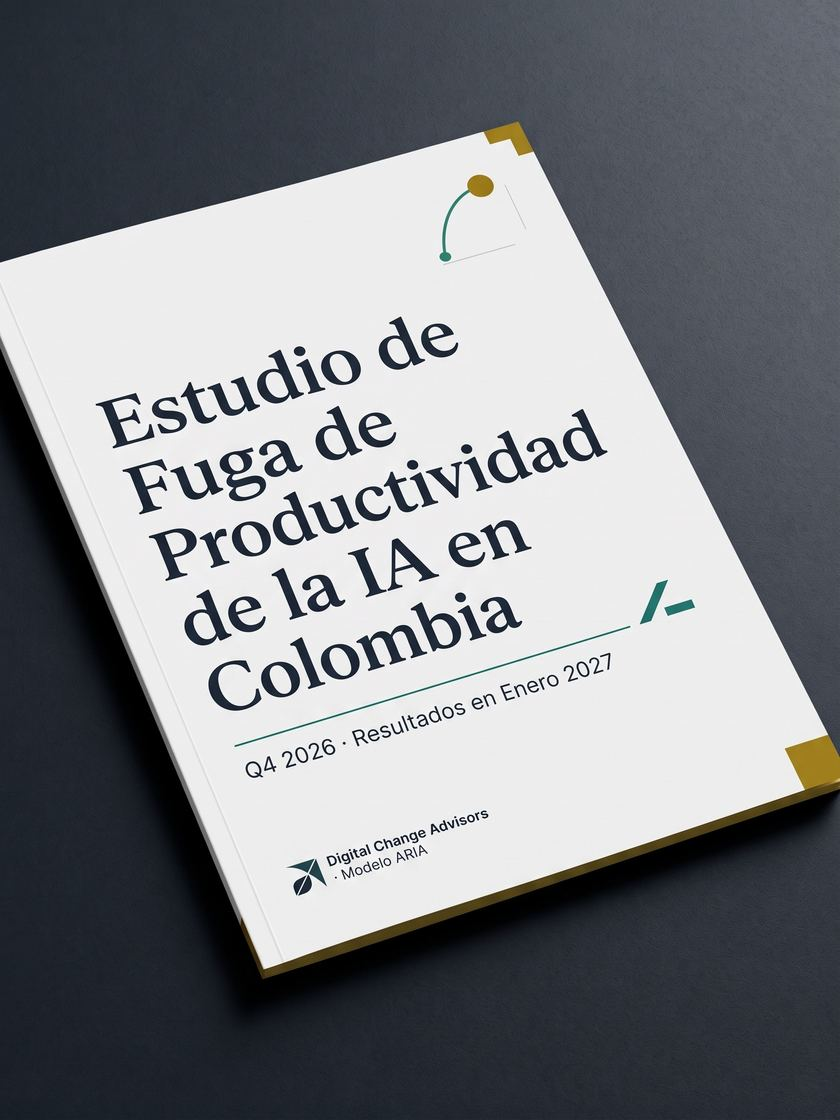
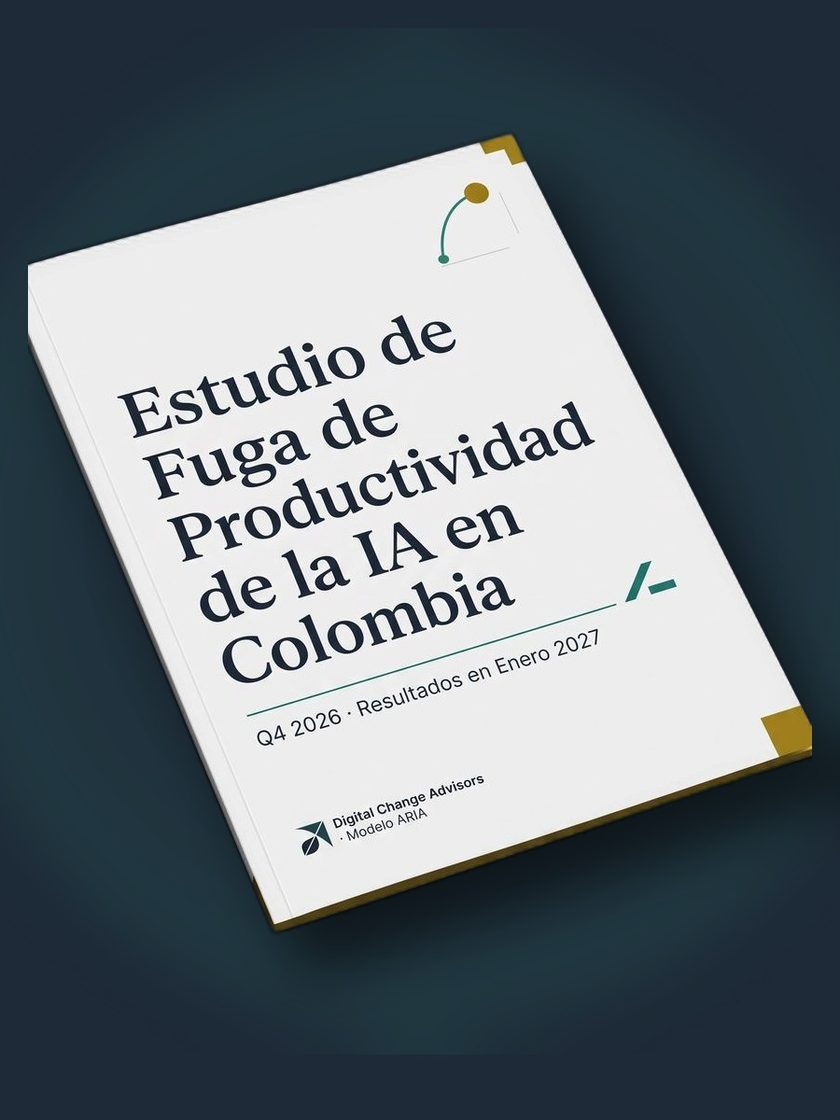
feat(blog): Estudio Colombia — nuevas fechas/muestra, portada recortada y fix de cascada mobile
Reescribe el bloque S5 de Perspectivas con el copy definitivo del Estudio de
Fuga de Productividad de la IA en Colombia: cierre de campo 16 de octubre de
2026, entrega a participantes 3 de noviembre, publicación abierta enero de
2027, muestra de 40 empresas colombianas, método AI Return Test (55
preguntas, <30 min). Cita a McKinsey (1.719 ejecutivos, 97 países) con
enlace a fuente primaria y citation en el JSON-LD Blog.

Portada: fondo recortado con rembg, halo teal radial y sombra suave
agregados por composición; masters en _image-masters/website/. Contraste
del cuerpo subido a 0.82 (~10.3:1 sobre carbón). Enlace secundario a
platino, botón primario en oro sólido sin cambios.

Corrige además un bug real de cascada en styles-blog.css: el media query
de mobile para .field-study__grid/.field-study__mock estaba declarado
antes que la regla base, así que nunca ganaba la especificidad y el
layout se quedaba en 2 columnas apretadas en viewports ≤980px. Verificado
con mediciones reales (Puppeteer) antes y después del fix.

Retira la última mención residual de "estudio LATAM" (newsletter AI
Return Pulse) por "Estudio Colombia".

diff --git a/blog.html b/blog.html
@@ -65,6 +65,9 @@
     "logo": {"@type": "ImageObject", "url": "https://digitalchangeadvisors.com/assets/favicon.png"}
   },
   "inLanguage": "es",
+  "citation": [
+    { "@type": "CreativeWork", "name": "The State of AI in 2026: On the Road to ROI", "publisher": { "@type": "Organization", "name": "McKinsey & Company" }, "url": "https://www.mckinsey.com/capabilities/quantumblack/our-insights/the-state-of-ai", "description": "Encuesta a 1.719 participantes en 97 países, trabajo de campo del 4 de mayo al 8 de junio de 2026, publicada el 25 de agosto de 2026. Citada en la sección Investigación en curso (Estudio de Fuga de Productividad de la IA en Colombia) por el 80% de mejora de productividad individual y el 37% de impacto en EBIT — mismas dos cifras y misma fuente ya citadas con este objeto en article-paper10.html." }
+  ],
   "blogPost": [
     {
       "@type": "BlogPosting",
@@ -670,22 +673,23 @@
       <div class="field-study__cover" data-reveal>
         <picture>
           <source srcset="assets/field-study-cover.webp" type="image/webp">
-          <img class="opt-img" src="assets/field-study-cover.jpg" alt="Portada del Estudio de Fuga de Productividad de la IA en Colombia — Digital Change Advisors · Modelo ARIA · Q4 2026" width="420" height="560" loading="lazy" decoding="async">
+          <img class="opt-img" src="assets/field-study-cover.jpg" alt="Portada del Estudio de Fuga de Productividad de la IA en Colombia — Digital Change Advisors · Modelo ARIA · campo abierto hasta el 16 de octubre de 2026" width="420" height="560" loading="lazy" decoding="async">
         </picture>
       </div>
 
       <div class="field-study__text" data-reveal>
-        <span class="label">Investigación en curso</span>
+        <span class="label">Investigación en curso · Campo abierto hasta el 16 de octubre</span>
         <h2 class="field-study__h2">
           <span class="line">Fuga de Productividad de la IA en Colombia: el estudio que</span>
           <span class="line">cuantifica lo que tu inversión no recupera.</span>
         </h2>
-        <p class="chapeau">Un estudio de campo enfocado en organizaciones medianas y grandes de Colombia: cuánto de la inversión en IA se pierde entre la adopción registrada y el retorno documentado en el P&amp;L.</p>
-        <p class="chapeau">Muestra: 50 empresas invitadas. Método: AI Return Test. Levantamiento de campo en Q4 2026 — resultados y benchmark sectorial en enero 2027. Quienes completen el AI Return Test antes del cierre y los suscriptores de AI Return Pulse serán los primeros en recibirlos.</p>
-        <p class="field-study__closer">Haz parte del primer diagnóstico sectorial de fuga de productividad de la IA en Colombia.</p>
+        <p class="chapeau"><a href="https://www.mckinsey.com/capabilities/quantumblack/our-insights/the-state-of-ai" target="_blank" rel="noopener noreferrer">McKinsey</a> midió en agosto de 2026, sobre 1.719 ejecutivos en 97 países: ocho de cada diez reportan más productividad personal con inteligencia artificial. Menos de cuatro de cada diez la encuentran en el EBIT de su empresa. Nadie ha medido esa distancia en Colombia.</p>
+        <p class="chapeau">Este es el primer estudio de campo que la mide, en organizaciones medianas y grandes con inversión activa en IA. Método: AI Return Test, 55 preguntas, menos de 30 minutos. Muestra objetivo: 40 empresas colombianas. El campo cierra el 16 de octubre.</p>
+        <p class="chapeau">Las empresas que completen la medición antes del cierre reciben tres cosas que el informe público no incluye: su resultado individual, su posición frente a las demás participantes y una lectura de treinta minutos con el equipo del estudio. La entrega a participantes es el 3 de noviembre de 2026. La publicación abierta, en enero de 2027.</p>
+        <p class="field-study__closer">Si tu empresa ya invirtió en IA y todavía no puede decir cuánto retornó, esta medición te da el número antes de que alguien te lo pregunte.</p>
         <div class="field-study__ctas">
-          <a href="https://digitalchangeadvisors.com/art/?utm_source=blog&utm_medium=website&utm_campaign=ai-return-test" class="btn btn--gold" target="_blank" rel="noopener">Contribuir al Estudio Colombia <span class="arrow">&rarr;</span></a>
-          <a href="#newsletter-pulse" class="field-study__secondary">Suscribirse a AI Return Pulse <span class="arrow">&rarr;</span></a>
+          <a href="https://digitalchangeadvisors.com/art/?utm_source=blog&utm_medium=website&utm_campaign=ai-return-test" class="btn btn--gold" target="_blank" rel="noopener">Medir mi empresa · 30 minutos <span class="arrow">&rarr;</span></a>
+          <a href="#newsletter-pulse" class="field-study__secondary">Solo quiero el informe público de enero <span class="arrow">&rarr;</span></a>
         </div>
       </div>
 
@@ -736,7 +740,7 @@
         <ul class="pulse__proof">
           <li><svg viewBox="0 0 24 24" aria-hidden="true"><path d="M20 6L9 17l-5-5" stroke-linecap="round" stroke-linejoin="round"/></svg><span>Evidencia que no circula en LinkedIn</span></li>
           <li><svg viewBox="0 0 24 24" aria-hidden="true"><path d="M20 6L9 17l-5-5" stroke-linecap="round" stroke-linejoin="round"/></svg><span>250+ Ejecutivos C-Level suscritos</span></li>
-          <li><svg viewBox="0 0 24 24" aria-hidden="true"><path d="M20 6L9 17l-5-5" stroke-linecap="round" stroke-linejoin="round"/></svg><span>Acceso prioritario a los datos del estudio LATAM</span></li>
+          <li><svg viewBox="0 0 24 24" aria-hidden="true"><path d="M20 6L9 17l-5-5" stroke-linecap="round" stroke-linejoin="round"/></svg><span>Acceso prioritario a los datos del Estudio Colombia</span></li>
         </ul>
       </div>
       <div class="pulse__form">

diff --git a/styles-blog.css b/styles-blog.css
@@ -939,8 +939,6 @@
 
 @media (max-width: 980px) {
   .masthead__grid { grid-template-columns: 1fr; gap: 48px; }
-  .field-study__grid { grid-template-columns: 1fr; gap: 44px; }
-  .field-study__mock { max-width: 300px; aspect-ratio: 3 / 4; }
   .authors-band__inner { gap: 40px; }
 }
 
@@ -1119,16 +1117,16 @@
 }
 .field-study__h2 {
   color: #fff;
-  font-size: clamp(20px, 2vw, 28px);
+  font-size: clamp(20px, 1.7vw, 25px);
   line-height: 1.2;
   margin-bottom: 22px;
   text-wrap: unset;
 }
 .field-study__h2 .line { display: block; }
 .field-study__text .chapeau {
-  color: rgba(255, 255, 255, 0.70);
-  margin-bottom: 36px;
-  max-width: 52ch;
+  color: rgba(255, 255, 255, 0.82);
+  margin-bottom: 28px;
+  max-width: 56ch;
 }
 .field-study__closer {
   font-family: 'Montserrat', sans-serif;
@@ -1159,13 +1157,30 @@
   box-shadow: 0 8px 22px rgba(164,129,17,0.40);
 }
 .field-study__secondary {
-  font-size: 14px; font-weight: 600;
-  color: rgba(255, 255, 255, 0.60);
+  font-size: 13px; font-weight: 600;
+  color: var(--teal-light);
   text-decoration: none;
   display: inline-flex; align-items: center; gap: 6px;
   transition: color 0.2s ease;
 }
 .field-study__secondary:hover { color: #fff; }
+.field-study__text .chapeau a {
+  color: #fff;
+  text-decoration: underline;
+  text-underline-offset: 2px;
+  text-decoration-color: rgba(255, 255, 255, 0.45);
+}
+.field-study__text .chapeau a:hover { text-decoration-color: #fff; }
+
+@media (max-width: 980px) {
+  /* Fix de regresión (2026-09-08): esta regla vivía antes de la declaración
+     base de .field-study__grid/.field-study__mock (línea ~1045) — con igual
+     especificidad, la base (sin media query) ganaba la cascada por orden de
+     aparición y el layout de 2 columnas nunca colapsaba en mobile, causando
+     overflow horizontal real en producción. Movida a después de la base. */
+  .field-study__grid { grid-template-columns: 1fr; gap: 44px; }
+  .field-study__mock { max-width: 300px; aspect-ratio: 3 / 4; }
+}
 
 /* ============================================================
    S6 QUIÉN INVESTIGA — banda editorial horizontal
